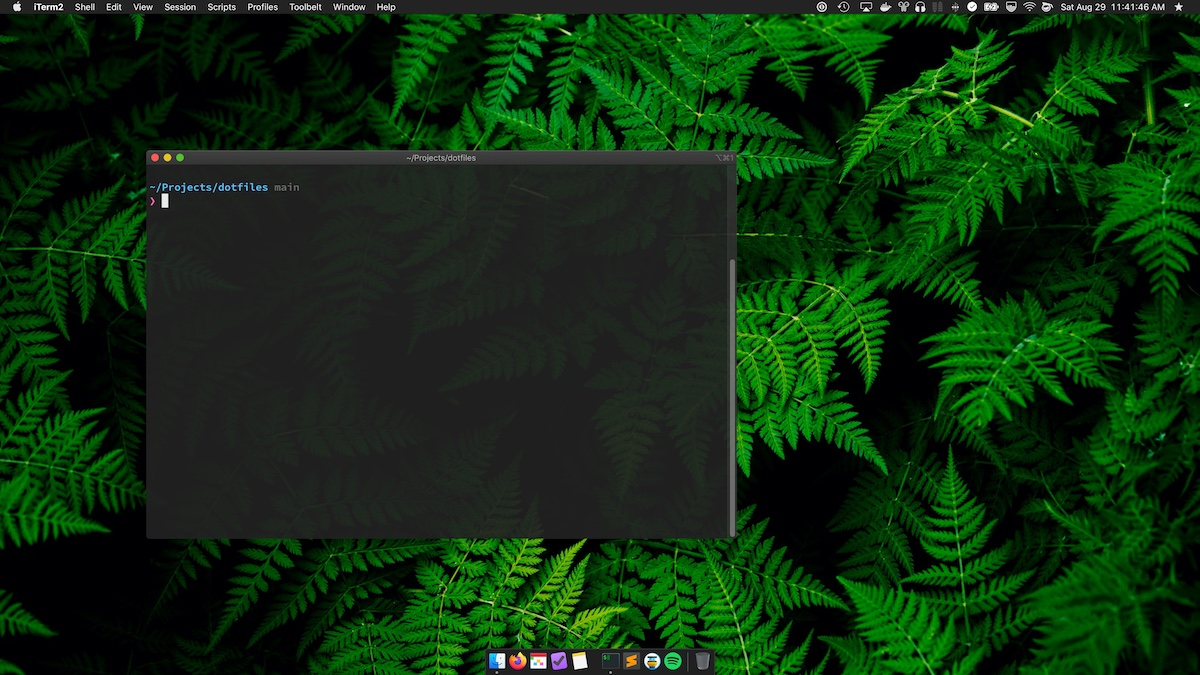
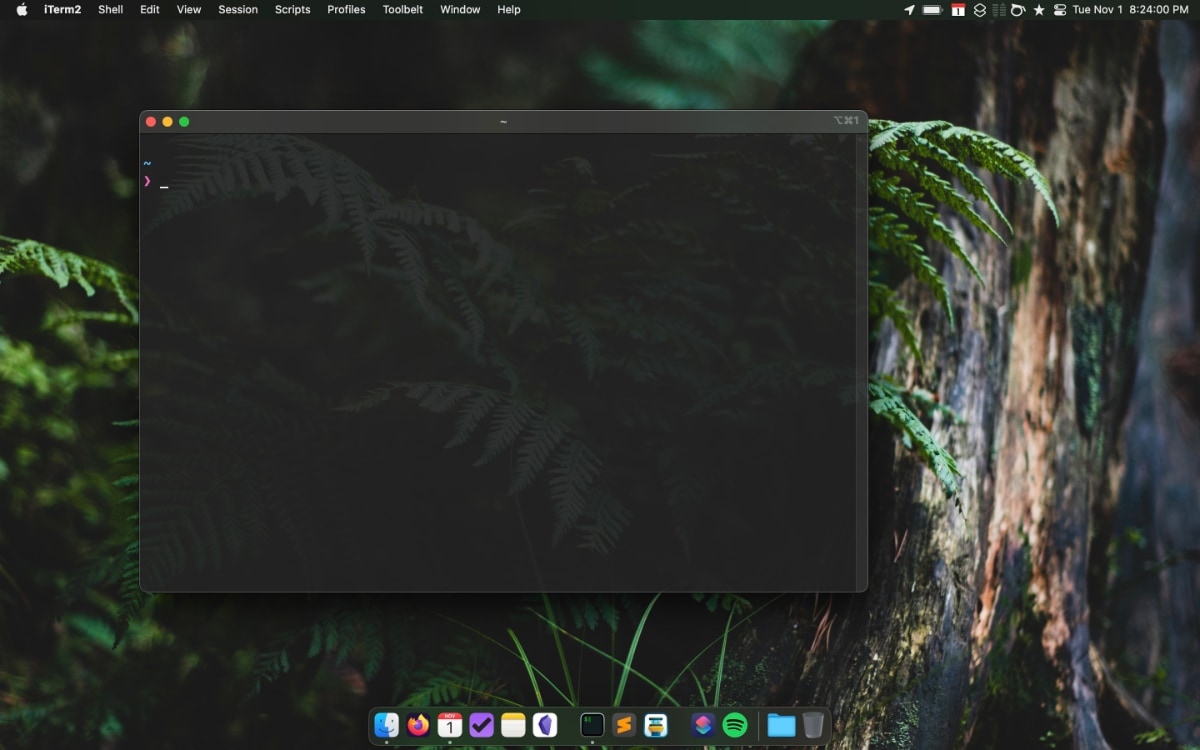
Update screenshot

diff --git a/README.md b/README.md
@@ -2,7 +2,7 @@
 
 These are the dotfiles and scripts that I use to setup and maintain my Mac.
 
-![macOS 10.15 Catalina desktop with Snazzy iTerm window](https://raw.githubusercontent.com/jsnmrs/dotfiles/main/assets/screenshot.jpg)
+![macOS 13 Ventura desktop with iTerm prompt](https://raw.githubusercontent.com/jsnmrs/dotfiles/main/assets/screenshot.jpg)
 
 - [Step zero](#step-zero)
 - [Getting started, using Git](#getting-started-using-git)
